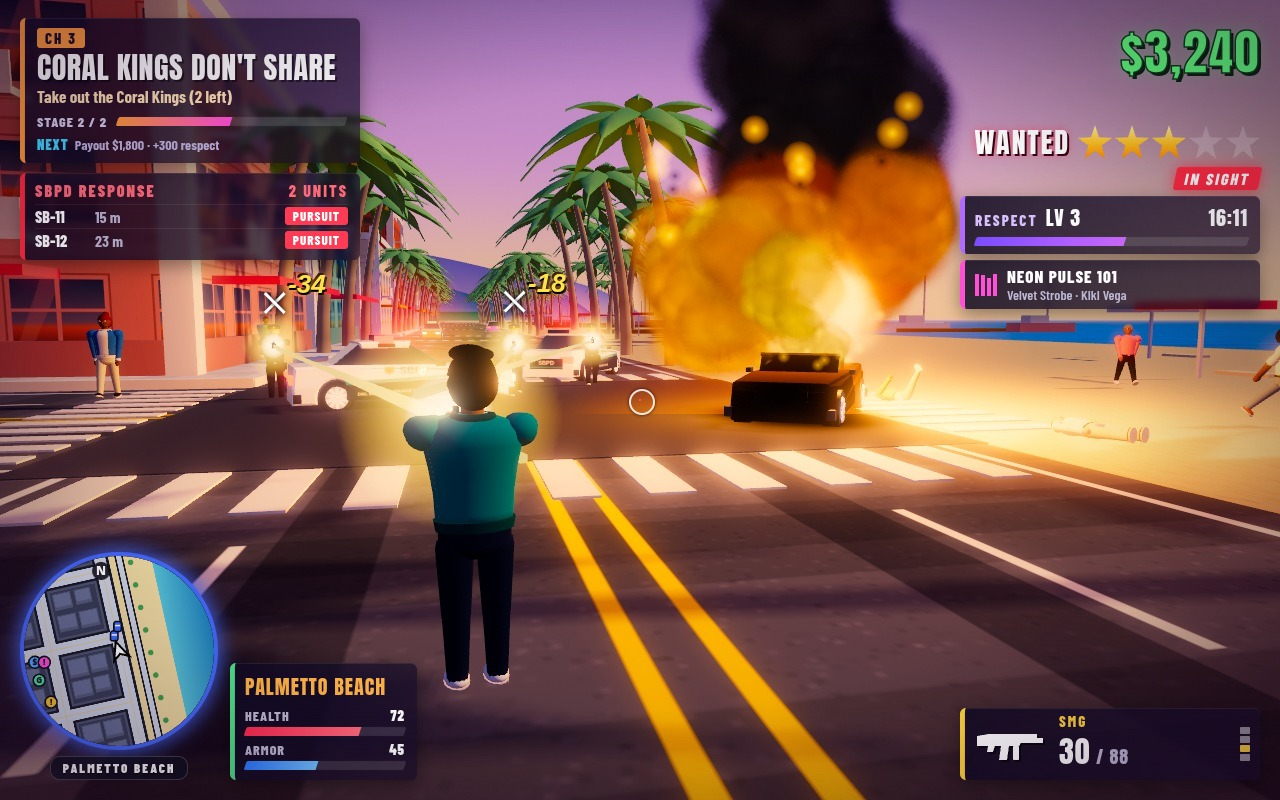
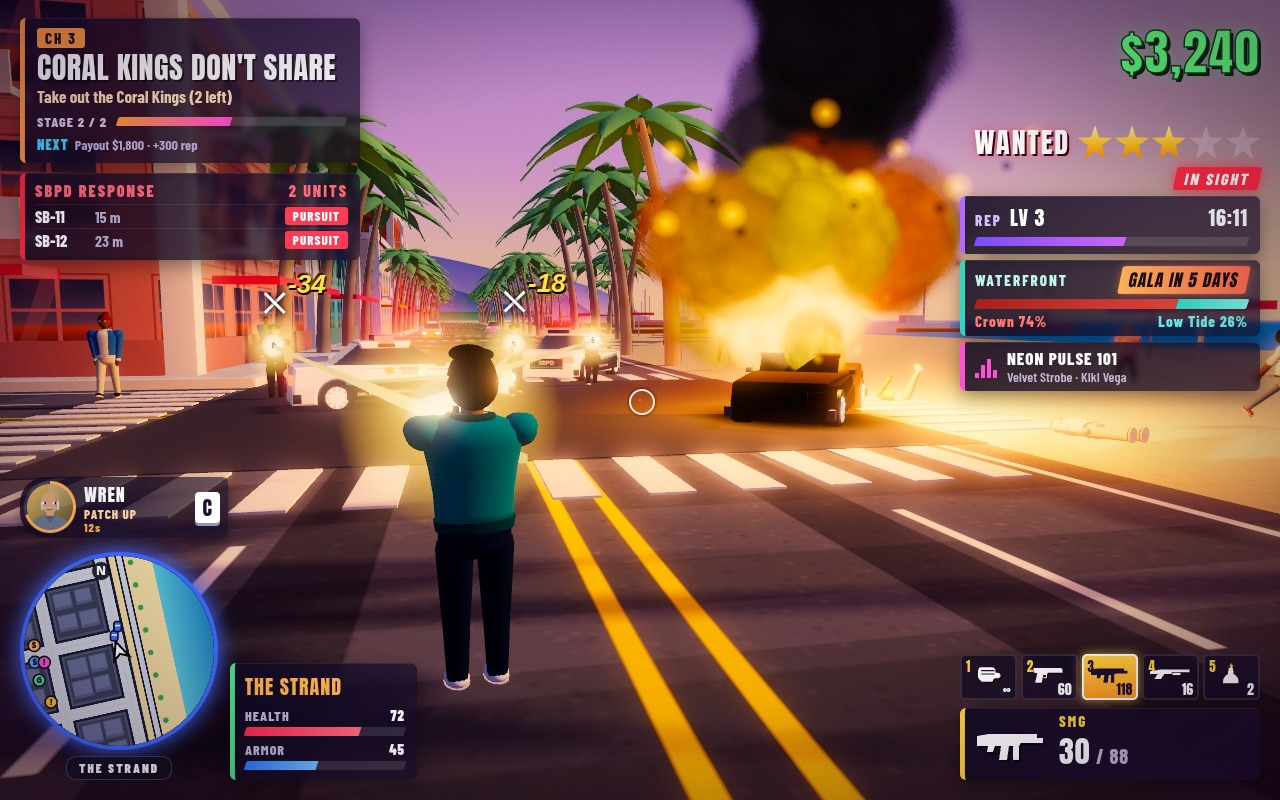
Shots: cover is chapter 6 with crew card stack, 5-slot weapon bar, Gala badge and territory bar, helicopter side-on fully in frame; 2-onfoot and 4-title re-shot (LOW TIDE subtitle)

diff --git a/game/src/shots/screenshotScenes.js b/game/src/shots/screenshotScenes.js
@@ -36,7 +36,8 @@ function typed() { dlg.t = 99; }
 function chase(api) {
   const p = G.p, z0 = lineCoord(3), zc = z0 + 0.5, x0 = -8; clearTraffic(); G.mode = 'play'; G.clock = 17.45; G.money = 48250; G.xp = 760; G.radio = 1; api.showHud(true);
   const car = createCar('veloce', x0, zc, Math.PI / 2 - 0.55, 'parked', 0xd01020); enterCar(car); car.vx = 38; car.vz = 1.5; car.speed = 38; car.steerA = 0.5; car.input.throttle = 1;
-  car.hp = car.maxHp * 0.68; car.nitro = 0.62; car.boosting = true; p.x = car.x; p.z = car.z; p.hp = 86; p.armor = 60; p.weapon = 2; p.owned = { 0: 1, 1: 1, 2: 1, 3: 1 }; p.ammo = { pistol: 84, smg: 210, shotgun: 24 };
+  car.hp = car.maxHp * 0.68; car.nitro = 0.62; car.boosting = true; p.x = car.x; p.z = car.z; p.hp = 86; p.armor = 60; p.weapon = 2; p.owned = { 0: 1, 1: 1, 2: 1, 3: 1, 4: 1 }; p.ammo = { pistol: 84, smg: 210, shotgun: 24, molotov: 3 };
+  G.completed = ['m1', 'm2', 'm3', 'm4', 'm5']; G.territory = null; G.crew = { cd: { sol: 22 }, swaps: 1 };
   const cop = (x, z, h, v, ai) => { const c = spawnCop(x, z, h, ai); c.vx = Math.sin(h) * v; c.vz = Math.cos(h) * v; c.speed = v; c.ai = ai; c.heading = h; return c; };
   // one cruiser rams the left rear quarter, one closes on the right, a third trails behind
   cop(x0 - 1.4, zc - 2.6, 1.12, 39, 'RAMMING'); cop(x0 + 8, zc + 4.2, Math.PI / 2 + 0.2, 37, 'PURSUIT'); cop(x0 - 18, zc - 3, Math.PI / 2 - 0.12, 36, 'PURSUIT');
@@ -45,8 +46,8 @@ function chase(api) {
   const tc = (key, x, dir, col, spd = 11) => { const c = placeTraffic('x', 3, x, dir, key, 'traffic', col); c.nav.spd = spd; return c; };
   tc('marlin', x0 + 56, -1, 0x2f7fd8, 14); tc('cadia', 66, -1, 0x2fb89a); tc('rumble', 92, -1, 0x8fd3c8); tc('pico', 120, 1, 0xff8a3d); tc('tupelo', 140, -1, 0xf6c21c); tc('hawke', 112, -1, 0xe9c46a); tc('pico', 80, -1, 0xc3a6e0);
   [[12, -1, -1], [26, -1, 1], [42, -1, -1], [6, 1, 1], [20, 1, -1], [40, 1, 1], [58, -1, -1], [-4, 1, -1], [76, 1, -1], [-2, -1, 1], [64, 1, 1], [2, 1, 1], [9, -1, -1], [15, 1, -1], [30, 1, 1], [48, 1, -1], [34, -1, 1]].forEach(([x, s, d], i) => { const a = spawnPed('x', 3, x, s, d); if (i % 2 === 0) { a.scared = 6; a.nav.dir = d; } animateWalk(a.mesh, i * 1.3, i % 2 ? 0.6 : 0.95, false); a.mesh.position.y = 0.25; a.y = 0.25; });
-  G.heli = createHeli(x0 + 30, zc + 1); G.heli.y = 15; G.heli.mesh.position.set(G.heli.x, 15, G.heli.z); G.heli.mesh.rotation.set(0.12, -Math.PI / 2 - 0.6, -0.16); G.heli.rotor.rotation.y = 0.7; placeCone(G.heli, car.x, car.z); G.shotLock = true;
-  addMarker({ x: 150, z: zc, kind: 'obj', label: 'Safehouse', color: 0xffd23c, auto: false }); setStars(4); G.wanted.heat = 4.3; fakeMission(5, 3, 'Escape the SBPD, then reach the Alder Hills safehouse', 87);
+  G.heli = createHeli(x0 + 37, zc + 5); G.heli.y = 9.2; G.heli.mesh.position.set(G.heli.x, 9.2, G.heli.z); G.heli.mesh.rotation.set(0.08, 0.35, -0.12); G.heli.rotor.rotation.y = 0.7; placeCone(G.heli, car.x, car.z); G.shotLock = true;
+  addMarker({ x: 150, z: zc, kind: 'obj', label: 'Safehouse', color: 0xffd23c, auto: false }); setStars(4); G.wanted.heat = 4.3; fakeMission(5, 2, "Reyne's units are on the pier: lose 4 stars", 0);
   for (const c of G.cars) { c.mesh.position.set(c.x, 0, c.z); c.mesh.rotation.y = c.heading; for (const w of c.mesh.userData.fw || []) w.rotation.y = c.steerA * 0.9; }
   updateSirens(0.1); updateLineOfSight(1);
   // the drift so far: an arc of twin skid marks behind the rear wheels, and light sunlit tyre smoke rolling off them, kept low and to the side
@@ -57,7 +58,7 @@ function chase(api) {
   // the ram: sparks where the cruiser's push bar meets the rear quarter
   const hx = x0 - 0.3, hz = zc - 1.45; sparks(hx, 0.7, hz, 34); sparks(hx, 0.55, hz, 18); particle({ x: hx, y: 0.75, z: hz, life: 1, size: 2.2, color: 0xffc070, add: true });
   G.money = 48000; api.updateHud(0.016); popup('DRIFT x3', 150, 'drift'); popup('NEAR MISS', 100, 'near');
-  say({ who: 'sol', text: 'Spikes at the bridge! Hit the nitro and thread the gap!' }); typed();
+  say({ who: 'sol', text: 'Dex sold us out! Spikes ahead: hit the nitro and thread the gap!' }); typed();
   G.exposure = 1.12; G.shotCam = { pos: [x0 - 9, 2.0, zc - 0.5], look: [x0 + 40, -0.6, zc - 0.5], fov: 44, roll: 0.03 };
   const rim = new THREE.PointLight(0xffe0c0, 60, 14, 1.6); rim.position.set(car.x - 3.5, 3.2, car.z + 1.5); G.scene.add(rim);
   finish(api); }
@@ -65,7 +66,7 @@ function chase(api) {
 // goes up in a fireball; beachgoers flee across the sand, the sea and the palms on the right.
 function onfoot(api) {
   const p = G.p, X = HALF; clearTraffic(); G.mode = 'play'; G.clock = 16.2; G.magicForce = 0.5; G.time = 0.1; G.money = 3240; G.xp = 720; G.radio = 2; api.showHud(true); rig.mode = 'auto';
-  p.owned = { 0: 1, 1: 1, 2: 1, 3: 1 }; p.ammo = { pistol: 60, smg: 118, shotgun: 16 }; p.hp = 72; p.armor = 45; G.camDistAim = 4.4; p.x = X - 1.2; p.z = 46; p.yaw = Math.PI + 0.12; p.aim = true; selectWeapon(2); G.cam.yaw = Math.PI - 0.22; G.cam.pitch = 0.1;
+  p.owned = { 0: 1, 1: 1, 2: 1, 3: 1, 4: 1 }; p.ammo = { pistol: 60, smg: 118, shotgun: 16, molotov: 2 }; G.completed = ['m1', 'm2']; G.territory = null; G.crew = { cd: { wren: 12 } }; p.hp = 72; p.armor = 45; G.camDistAim = 4.4; p.x = X - 1.2; p.z = 46; p.yaw = Math.PI + 0.12; p.aim = true; selectWeapon(2); G.cam.yaw = Math.PI - 0.22; G.cam.pitch = 0.1;
   animateWalk(p.mesh, 0.6, 0.0, true); p.mesh.position.set(p.x, 0, p.z); p.mesh.rotation.y = p.yaw; setGun(p.mesh, 'smg');
   // the SBPD cruiser slewed across the road, officers firing over and beside it
   const cr = spawnCop(X - 2.5, 31, Math.PI / 2 + 0.25, 'PURSUIT'); cr.speed = 0; cr.vx = cr.vz = 0; cr.deployed = true;

diff --git a/game/index.html b/game/index.html
@@ -46,7 +46,7 @@
 </div>
 
 <div id="title" class="screen hidden">
-  <div class="tbox"><div class="kicker">AN OPEN-WORLD CRIME STORY</div><h1 class="logo" aria-label="SOLVANE BAY"><span class="l1">SOLVANE</span><span class="l2">BAY</span></h1><div class="sub">Sun, neon, and sirens on the coast</div>
+  <div class="tbox"><div class="kicker">AN OPEN-WORLD CRIME STORY</div><h1 class="logo" aria-label="SOLVANE BAY"><span class="l1">SOLVANE</span><span class="l2">BAY</span></h1><div class="sub"><b class="lowtide">LOW TIDE</b> Seven days to take the waterfront back</div>
   <div class="menu"><button data-act="new">New Game</button><button data-act="continue" id="btnContinue">Continue</button><div id="contSub"></div><button data-act="controls">Controls</button><button data-act="settings">Settings</button></div></div>
   <div class="tfoot">LOW TIDE · Nico Varela is home on the night ferry. Viktor Brandt owns his mother's diner. Seven days to the Causeway Gala. · Desktop Chrome · keyboard + mouse</div>
 </div>

diff --git a/game/styles/menus.css b/game/styles/menus.css
@@ -71,3 +71,4 @@
 #garageList .item { display: flex; justify-content: space-between; align-items: center; gap: 20px; padding: 8px 0; border-top: 1px solid rgba(255, 255, 255, 0.1); } #garageList small { color: #bdb2dc; } #garageList button { padding: 6px 14px; font-size: 14px; }
 .pips i { display: inline-block; width: 14px; height: 8px; margin-left: 3px; background: rgba(255, 255, 255, 0.2); transform: skewX(-18deg); } .pips i.on { background: #ffb35a; } .maxed { color: #4fe08a; font-weight: 800; letter-spacing: 1px; }
 .swatches { display: flex; gap: 6px; } #garageList .swatches button { width: 30px; height: 30px; padding: 0; border-radius: 50%; border: 2px solid #fff; }
+.sub .lowtide { font-size: 22px; letter-spacing: 4px; color: #2fd6c4; margin-right: 10px; text-shadow: 2px 2px 0 #08262c; }
